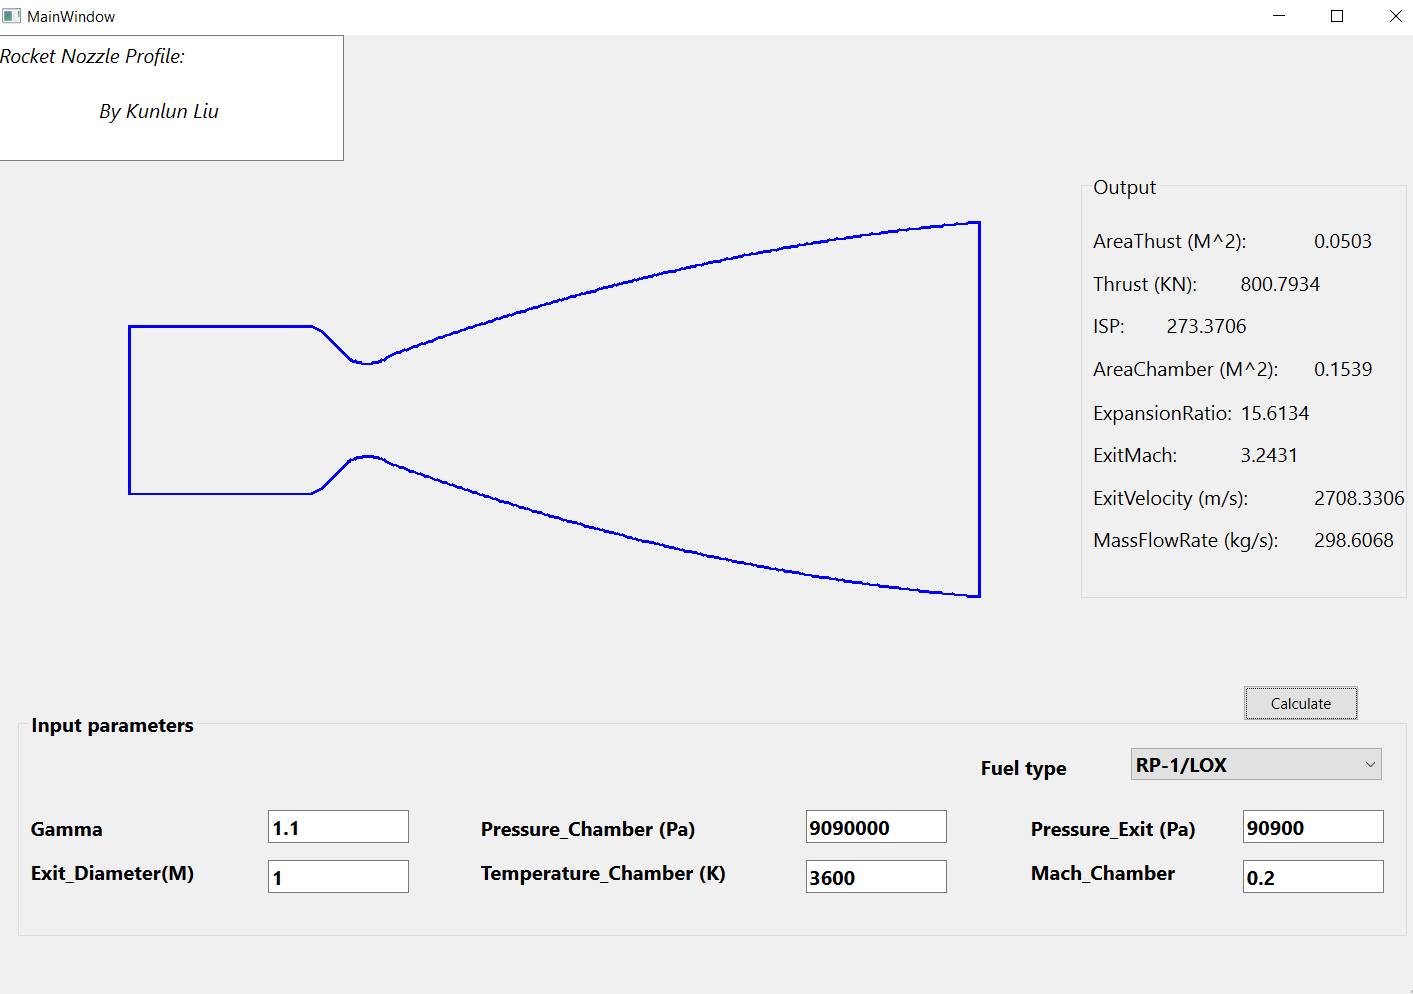
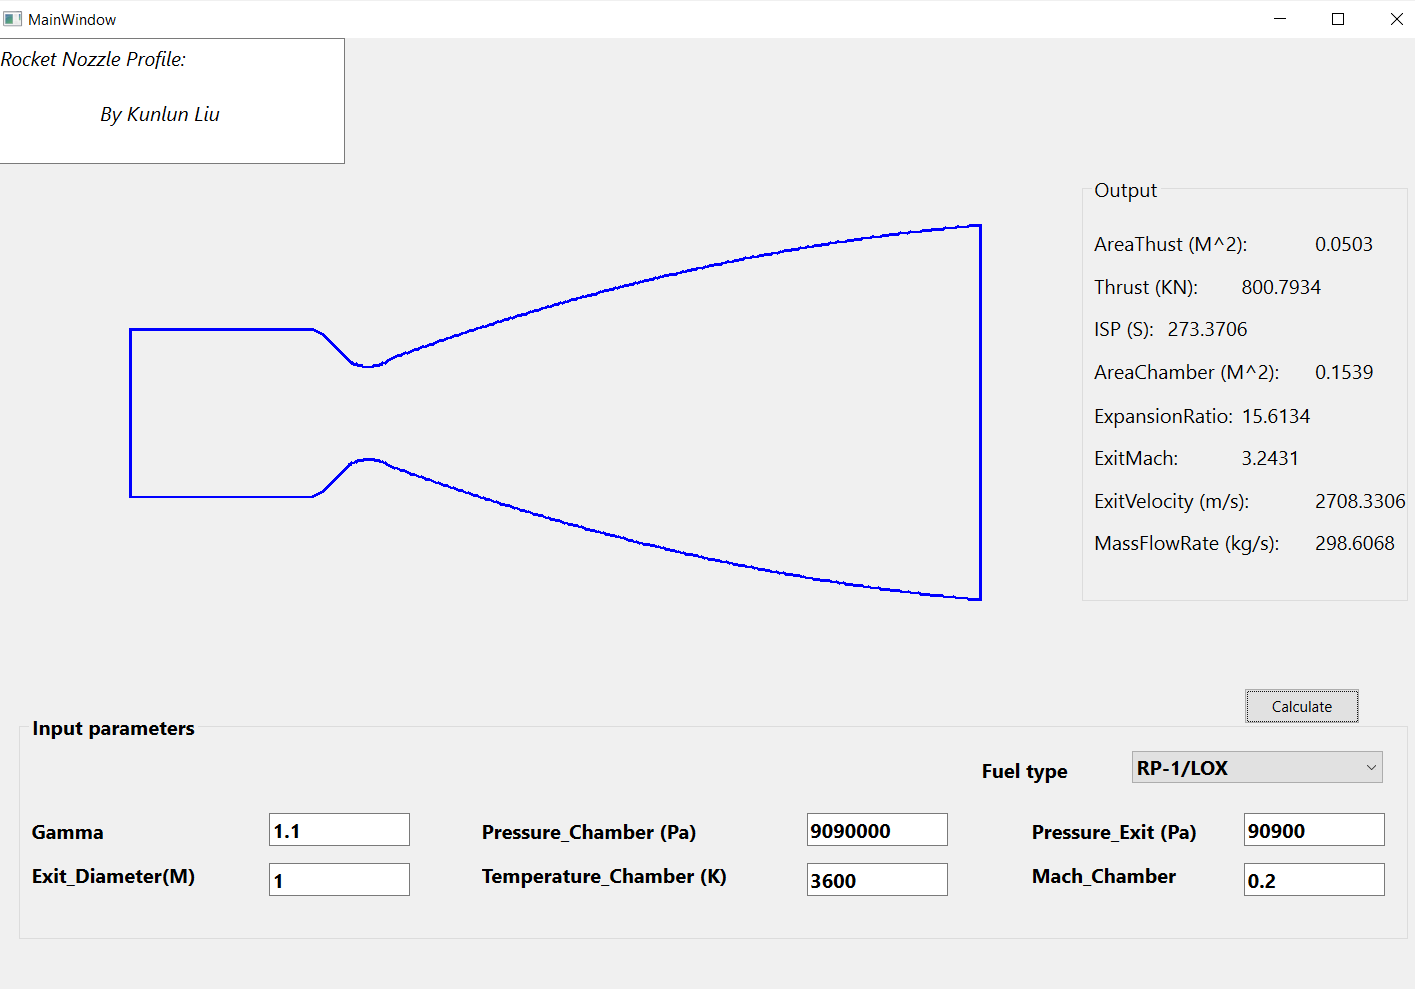
Add files via upload

diff --git a/mainwindow.cpp b/mainwindow.cpp
@@ -7,6 +7,7 @@
 #include <QPainterPath>
 #include <string>
 #include <iostream>
+#include <QFile>
 
 MainWindow::MainWindow(QWidget *parent)
     : QMainWindow(parent)
@@ -25,6 +26,7 @@ void MainWindow::on_pushButton_clicked()
 {
     parameterupdates();
     update();
+    profileGenerator();
 }
 
 
@@ -32,6 +34,7 @@ void MainWindow::on_comboBox_activated(int index)
 {
     parameterupdates();
     update();
+    profileGenerator();
 }
 
 
@@ -48,6 +51,14 @@ void MainWindow::parameterupdates(){
     }
     else{
         Rt.MassWeight = 26;
+    }
+
+    i = ui->comboBox_2->currentIndex();
+    if(i == 0){
+        Rt.pressureAmbiant = 101000;
+    }
+    else{
+        Rt.pressureAmbiant = 0;
     }
 
     const char* str = ui->lineEdit->text().toStdString().c_str();
@@ -76,22 +87,22 @@ void MainWindow::parameterupdates(){
     sprintf(buffer, "AreaThust (M^2):\t%.4f", Rt.areaThrust);
     ui->label_8->setText(buffer);
 
-    sprintf(buffer, "Thrust (KN):\t%.4f", Rt.thrust/1000);
+    sprintf(buffer, "Thrust (KN):\t\t%.4f", Rt.thrust/1000);
     ui->label_9->setText(buffer);
 
-    sprintf(buffer, "ISP:\t%.4f", Rt.Isp);
+    sprintf(buffer, "ISP (S):\t\t\t%.4f", Rt.Isp);
     ui->label_10->setText(buffer);
 
     sprintf(buffer, "AreaChamber (M^2):\t%.4f", Rt.areaChamber);
     ui->label_11->setText(buffer);
 
-    sprintf(buffer, "ExpansionRatio:\t%.4f", Rt.expansionRatio);
+    sprintf(buffer, "ExpansionRatio:   \t%.4f", Rt.expansionRatio);
     ui->label_12->setText(buffer);
 
-    sprintf(buffer, "ExitMach:\t%.4f", Rt.machExit);
+    sprintf(buffer, "ExitMach:\t\t%.4f", Rt.machExit);
     ui->label_13->setText(buffer);
 
-    sprintf(buffer, "ExitVelocity (m/s):\t%.4f", Rt.velocityExit);
+    sprintf(buffer, "ExitVelocity (m/s): \t%.4f", Rt.velocityExit);
     ui->label_14->setText(buffer);
 
     sprintf(buffer, "MassFlowRate (kg/s):\t%.4f", Rt.MFR);
@@ -99,7 +110,150 @@ void MainWindow::parameterupdates(){
 
     r0 = sqrt(Rt.areaThrust /3.1415926);
     rc = sqrt(Rt.areaChamber / 3.1415926);
-    ye = re;
+}
+
+
+void MainWindow::profileGenerator(){
+    QString file = "Profile.dat";
+
+    QFile outputFile(file);
+    outputFile.open(QIODevice::WriteOnly);
+
+    if(!outputFile.isOpen())
+    {
+        //alert that file did not open
+    }
+
+    QTextStream outStream(&outputFile);
+
+    float x1 = 0;
+    float y1 = r0*(1+r1);
+    float dr1 = r0*r1;
+
+    float x2 = x1 + dr1*sin(theta0*3.1415926/180);
+    float y2 = y1 - dr1*cos(theta0*3.1415926/180);
+    float x3;
+    float y3;
+    float theta;
+
+    outStream << x2 << "," << y2 << "\n";;
+
+    for (int i = theta0; i < theta1; i++){
+        theta = i*3.1415926/180;
+        x3 = x1 + dr1*sin(theta);
+        y3 = y1 - dr1*cos(theta);
+        if(x3 != x2){
+            outStream << x3 << "," << y3 << "\n";
+            x2 = x3;
+            y2 = y3;
+        }
+    }
+
+    x3 = x2 + r2;
+    y3 = y2 + r2 * qTan(theta1*3.1415926/180);
+
+    outStream << x3 << "," << y3 << "\n";
+
+    float x4 = x3 + r3*qSin(theta1*3.1415926/180);
+    float y4 = y3 - r3*qCos(theta1*3.1415926/180);
+
+    x2 = x3;
+    y2 = y3;
+    for (int i = theta1; i < theta2; i--){
+         theta = i*3.1415926/180;
+         x3 = x4 - r3*qSin(theta);
+         y3 = y4 + r3*qCos(theta);
+         if(x3 != x2){
+             outStream << x3 << "," << y3 << "\n";
+             x2 = x3;
+             y2 = y3;
+         }
+    }
+
+
+    float y5 = re;
+    float x5 = (y5 - y3) * 2 / (qTan(theta3*3.1415926/180)+qTan(theta2*3.1415926/180))+x3;
+    float c = y3;
+    float b = qTan(theta2*3.1415926/180);
+    float a = (qTan(theta3*3.1415926/180)-qTan(theta2*3.1415926/180))/2/(x5-x3);
+    float x6=x3;
+    float y6=y3;
+    float y7;
+    float x7;
+
+    int N = 100;
+    for (int i = 1; i<N+1; i++){
+        x7 = x3+(x5-x3)*i/N;
+        y7 = ((a*(x7-x3)+b)*(x7-x3)+c);
+        outStream << x7 << "," << y7 << "\n";
+    }
+
+    for (int i = N; i>0; i--){
+        x7 = x3+(x5-x3)*i/N;
+        y7 = -((a*(x7-x3)+b)*(x7-x3)+c);
+        outStream << x7 << "," << y7 << "\n";
+    }
+
+
+    for (int i = theta2; i > theta1; i++){
+         theta = i*3.1415926/180;
+         x3 = x4 - r3*qSin(theta);
+         y3 = y4 + r3*qCos(theta);
+         if(x3 != x2){
+            outStream << x3 << "," << -y3 << "\n";
+            x2 = x3;
+            y2 = y3;
+         }
+    }
+
+    x3 = x3 - r2;
+    y3 = -y3 + r2 * qTan(theta1*3.1415926/180);
+    outStream << x3 << "," << y3 << "\n";
+
+    x2 = x3;
+    y2 = y3;
+    for (int i = theta1; i > theta0; i--){
+        theta = i*3.1415926/180;
+        x3 = x1 + dr1*qSin(theta);
+        y3 = y1 - dr1*qCos(theta);
+        if(x3 != x2){
+            outStream << x3 << "," << -y3 << "\n";
+            x2 = x3;
+            y2 = -y3;
+        }
+    }
+
+    y3 = - rc;
+    x3 = x2 - (y2-y3);
+    float l = 0.01;
+    outStream << x3+l << "," << y3+l << "\n";
+    outStream << x3-l << "," << y3 << "\n";
+    outStream << x3-lc << "," << y3 << "\n";
+    outStream << x3-lc << "," << -y3 << "\n";
+    outStream << x3-l << "," << -y3 << "\n";
+    outStream << x3+l << "," << -y3-l << "\n";
+    outStream << x2 << "," << -y2 << "\n";
+
+    outputFile.close();
+
+/*
+    QFile inputFile(file);
+    if (inputFile.open(QIODevice::ReadOnly))
+    {
+       QTextStream in(&inputFile);
+       while (!in.atEnd())
+       {
+          QString line = in.readLine();
+          QStringList myStringList = line.split(',');
+          qDebug() << myStringList.first() << myStringList.last();
+          float f1 = myStringList.first().toFloat();
+          float f2 = myStringList.last().toFloat();
+          qDebug() << f1 << "\t" << f2 ;
+       }
+       inputFile.close();
+    }
+*/
+
 }
 
 void MainWindow::paintEvent(QPaintEvent *event){
@@ -112,13 +266,10 @@ void MainWindow::paintEvent(QPaintEvent *event){
 
     int x0 = 300;
     int y0 = 300;
-    float r1 = 0.8;
 
     int x1 = x0;
     int y1 = y0 + r0*(1+r1)*factor;
     float dr1 = r0*r1*factor;
-    float theta0 = -30;
-    float theta1 = 30;
 
     int x2 = x1 + dr1*sin(theta0*3.1415926/180);
     int y2 = y1 - dr1*cos(theta0*3.1415926/180);
@@ -137,22 +288,20 @@ void MainWindow::paintEvent(QPaintEvent *event){
         }
     }
 
-    float r2 = 0.02*factor;
-    x3 = x2 + r2;
-    y3 = y2 + r2 * qTan(theta1*3.1415926/180);
+    x3 = x2 + r2*factor;
+    y3 = y2 + r2*factor * qTan(theta1*3.1415926/180);
 
     painter.drawLine(x2,y2,x3,y3);
 
-    r2 = 0.2*factor;
-    int x4 = x3 + r2*qSin(theta1*3.1415926/180);
-    int y4 = y3 - r2*qCos(theta1*3.1415926/180);
-    float theta2 = 20;
+    int x4 = x3 + r3*factor*qSin(theta1*3.1415926/180);
+    int y4 = y3 - r3*factor*qCos(theta1*3.1415926/180);
+
     x2 = x3;
     y2 = y3;
     for (int i = theta1; i < theta2; i--){
          theta = i*3.1415926/180;
-         x3 = x4 - r2*sin(theta);
-         y3 = y4 + r2*cos(theta);
+         x3 = x4 - r3*factor*sin(theta);
+         y3 = y4 + r3*factor*cos(theta);
          if(x3 != x2){
              painter.drawLine(x2,y2,x3,y3);
              x2 = x3;
@@ -160,8 +309,8 @@ void MainWindow::paintEvent(QPaintEvent *event){
          }
     }
 
-    float theta3 = 5;
-    int y5 = y0 + re*factor;
+
+    int y5 = y0 + re * factor;
     int x5 = (y5 - y3) * 2 / (qTan(theta3*3.1415926/180)+qTan(theta2*3.1415926/180))+x3;
     float c = y3;
     float b = qTan(theta2*3.1415926/180);
@@ -181,7 +330,7 @@ void MainWindow::paintEvent(QPaintEvent *event){
     y6 = 2*y0-y7;
     painter.drawLine(x5,y7, x6, y6);
 
-    std::cout << y1-dr1 <<"\t" << x6 << "\t" << y6 << "\t" << y7 << std::endl;
+//    std::cout << y1-dr1 <<"\t" << x6 << "\t" << y6 << "\t" << y7 << std::endl;
 
     for (int i = x5; i>x3; i=i-2){
         y7 = 2*y0-((a*(i-x3)+b)*(i-x3)+c);
@@ -192,11 +341,10 @@ void MainWindow::paintEvent(QPaintEvent *event){
 
     x2 = x6;
     y2 = y6;
-    r2 = 0.2*factor;
     for (int i = theta2; i > theta1; i++){
          theta = i*3.1415926/180;
-         x3 = x4 - r2*sin(theta);
-         y3 = y4 + r2*cos(theta);
+         x3 = x4 - r3*factor*sin(theta);
+         y3 = y4 + r3*factor*cos(theta);
          y3 = 2 * y0 - y3;
          if(x3 != x2){
              painter.drawLine(x2,y2,x3,y3);
@@ -205,9 +353,8 @@ void MainWindow::paintEvent(QPaintEvent *event){
          }
     }
 
-    r2 = 0.02*factor;
-    x3 = x2 - r2;
-    y3 = y2 + r2 * qTan(theta1*3.1415926/180);
+    x3 = x2 - r2*factor;
+    y3 = y2 + r2*factor * qTan(theta1*3.1415926/180);
     painter.drawLine(x2,y2,x3,y3);
 
     x2 = x3;
@@ -237,5 +384,18 @@ void MainWindow::paintEvent(QPaintEvent *event){
     painter.drawLine(x3-4,2*y0-y3, x3+4, 2*y0-y3-4);
     painter.drawLine(x3+4,2*y0-y3-4, x2, 2*y0-y2);
 
+    pen.setWidth(1);
+    pen.setColor(Qt::green);
+    painter.setPen(pen);
 
+    painter.drawLine(x0,y0+factor/2, x0, y0+factor/2+10);
+    painter.drawLine(x0,y0+factor/2+10, x5, y0+factor/2+10);
+    painter.drawLine(x5,y0+factor/2+10, x5, y0+factor/2);
+
+    char buffer[16];
+    float x_length = (x5-x0)*1.0 / factor;
+    sprintf(buffer, "%.4f meter", x_length);
+
+    ui->label_17->move(x0+factor/2, y0+factor/2+14);
+    ui->label_17->setText(buffer);
 }

diff --git a/mainwindow.h b/mainwindow.h
@@ -3,6 +3,7 @@
 
 #include <QMainWindow>
 #include <QPainter>
+#include <QVector>
 
 QT_BEGIN_NAMESPACE
 namespace Ui { class MainWindow; }
@@ -17,13 +18,23 @@ public:
     ~MainWindow();
     virtual void paintEvent(QPaintEvent *event);
     void parameterupdates();
+    void profileGenerator();
 
-    float r0=0.1265;
-    float re=0.5;
-    float rc=0.2213;
-    float ye=0.5;
-    float lc=0.5;
+    float r0=0.1265;        // the thrust area radius.
+    float re=0.5;           // the radius of exit.
+    float rc=0.2213;        // the radius of combustion chamber
+    float lc=0.5;           // the length of combustion chamber
+
     int factor = 300;
+    float r1 = 1.0;         // the ratio of thrust curve radius to the thrust area radius
+    float r2 = 0.02;        // the extension length of thrust curve along the the x axis, where the film cooling hole located.
+    float r3 = 0.2;         // the circle which adjusts the diverge angle from theta1 to theta2
+    float theta0 = -45;     // thrust span from theta0 to theta1 with radius r1*r0.
+    float theta1 = 35;
+    float theta2 = 25;
+    float theta3 = 5;       // expansion angle of nozzle exit.
+
+    QVector<float> parameters;
 
 private slots:
     void on_pushButton_clicked();

diff --git a/rocket.h b/rocket.h
@@ -2,8 +2,9 @@
 #define ROCKET_H
 
 #include <QtCore/qmath.h>
+#include "mainwindow.h"
 
-class Rocket
+class Rocket : MainWindow
 {
 
 public:
